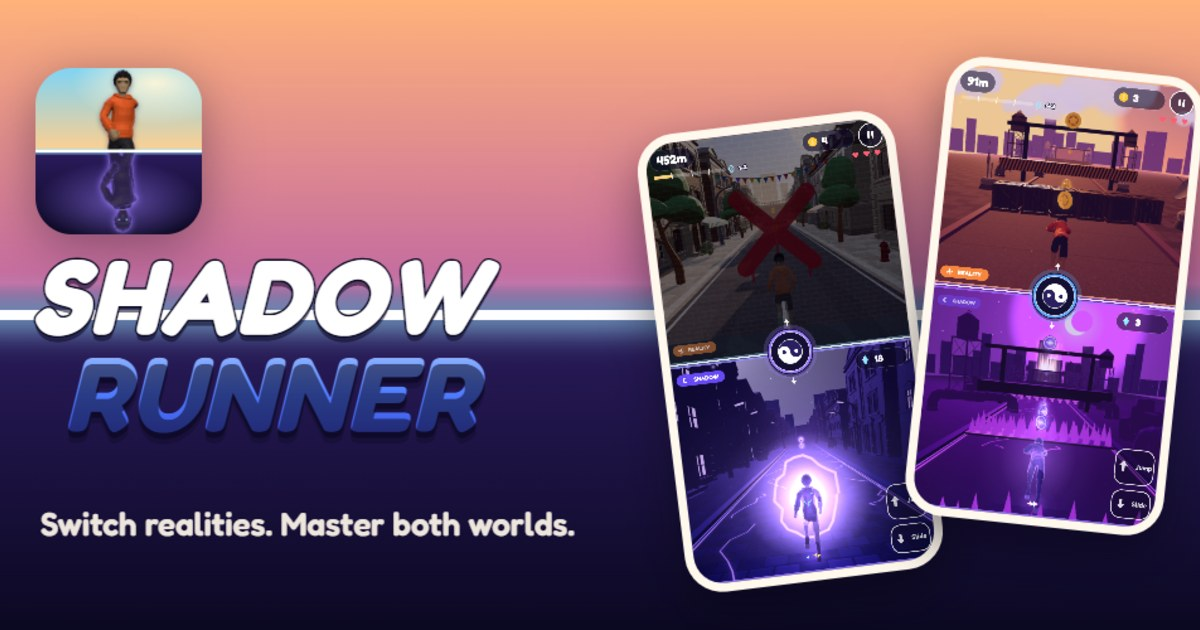
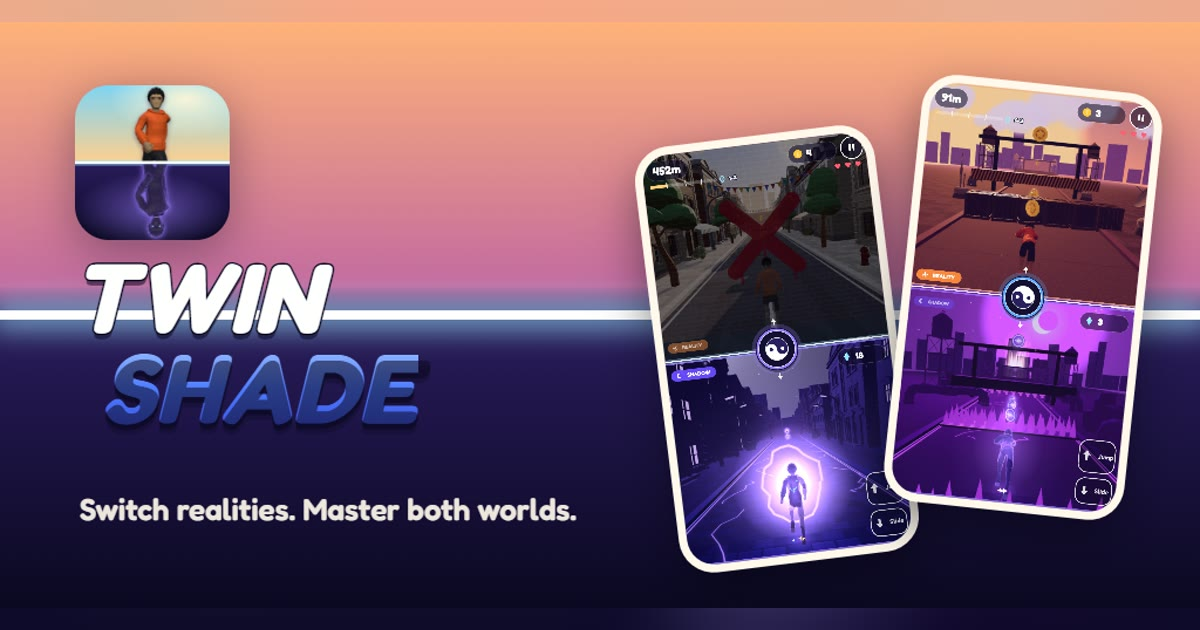
Rename the game to Twinshade
Google Play rejected the name "Shadow Runner" under the Impersonation
policy. New name everywhere, new share image with the Twinshade logo.

diff --git a/index.html b/index.html
@@ -3,12 +3,12 @@
 <head>
 <meta charset="utf-8">
 <meta name="viewport" content="width=device-width, initial-scale=1">
-<title>Shadow Runner: Two Worlds – Two-World Puzzle Runner for Android &amp; iPhone</title>
-<meta name="description" content="Shadow Runner: Two Worlds is a puzzle runner for Android and iPhone. Control your runner in a bright reality and your shadow in a dark shadow world at the same time. 30 handcrafted levels, no ads, no tracking, works offline. Coming soon.">
+<title>Twinshade: Two Worlds Runner – Puzzle Runner Game for Android &amp; iPhone</title>
+<meta name="description" content="Twinshade: Two Worlds Runner is a puzzle runner for Android and iPhone. Control your runner in a bright reality and your shadow in a dark shadow world at the same time. 30 handcrafted levels, no ads, no tracking, works offline. Coming soon.">
 <meta name="robots" content="index, follow, max-image-preview:large, max-snippet:-1">
 <meta name="author" content="Medin Turkes">
-<meta name="application-name" content="Shadow Runner">
-<meta name="apple-mobile-web-app-title" content="Shadow Runner">
+<meta name="application-name" content="Twinshade">
+<meta name="apple-mobile-web-app-title" content="Twinshade">
 <meta name="theme-color" content="#120e2a">
 <meta name="color-scheme" content="dark">
 <link rel="canonical" href="https://metur100.github.io/Shadow.Runner.Landing/">
@@ -22,20 +22,20 @@
 <link rel="stylesheet" href="assets/style.css">
 
 <meta property="og:type" content="website">
-<meta property="og:site_name" content="Shadow Runner">
+<meta property="og:site_name" content="Twinshade">
 <meta property="og:locale" content="en_US">
-<meta property="og:title" content="Shadow Runner: Two Worlds – Two worlds. One runner.">
+<meta property="og:title" content="Twinshade: Two Worlds Runner – Two worlds. One runner.">
 <meta property="og:description" content="Run through a bright reality and a dark shadow world at the same time. Tap to switch. 30 handcrafted levels for Android and iPhone. No ads, no tracking, fully offline.">
 <meta property="og:url" content="https://metur100.github.io/Shadow.Runner.Landing/">
 <meta property="og:image" content="https://metur100.github.io/Shadow.Runner.Landing/assets/og-image.jpg">
 <meta property="og:image:width" content="1200">
 <meta property="og:image:height" content="630">
-<meta property="og:image:alt" content="Shadow Runner app icon and logo next to two phones showing a runner in a sunny city above and its shadow in a dark world below">
+<meta property="og:image:alt" content="Twinshade app icon and logo next to two phones showing a runner in a sunny city above and its shadow in a dark world below">
 <meta name="twitter:card" content="summary_large_image">
-<meta name="twitter:title" content="Shadow Runner: Two Worlds – Two worlds. One runner.">
+<meta name="twitter:title" content="Twinshade: Two Worlds Runner – Two worlds. One runner.">
 <meta name="twitter:description" content="Run through a bright reality and a dark shadow world at the same time. No ads, no tracking, fully offline.">
 <meta name="twitter:image" content="https://metur100.github.io/Shadow.Runner.Landing/assets/og-image.jpg">
-<meta name="twitter:image:alt" content="Shadow Runner app icon and logo next to two phones showing a runner in a sunny city above and its shadow in a dark world below">
+<meta name="twitter:image:alt" content="Twinshade app icon and logo next to two phones showing a runner in a sunny city above and its shadow in a dark world below">
 
 <script type="application/ld+json">
 {
@@ -45,8 +45,8 @@
       "@type": "WebSite",
       "@id": "https://metur100.github.io/Shadow.Runner.Landing/#website",
       "url": "https://metur100.github.io/Shadow.Runner.Landing/",
-      "name": "Shadow Runner",
-      "alternateName": "Shadow Runner: Two Worlds",
+      "name": "Twinshade",
+      "alternateName": "Twinshade: Two Worlds Runner",
       "inLanguage": "en",
       "publisher": { "@id": "https://metur100.github.io/Shadow.Runner.Landing/#author" }
     },
@@ -59,8 +59,8 @@
     {
       "@type": ["MobileApplication", "VideoGame"],
       "@id": "https://metur100.github.io/Shadow.Runner.Landing/#app",
-      "name": "Shadow Runner: Two Worlds",
-      "alternateName": "Shadow Runner",
+      "name": "Twinshade: Two Worlds Runner",
+      "alternateName": "Twinshade",
       "url": "https://metur100.github.io/Shadow.Runner.Landing/",
       "description": "A two-world puzzle runner: control your physical self in a bright reality and your shadow in a dark shadow world at the same time, and tap to switch which one is active. 30 handcrafted levels in 6 worlds, cross-world puzzles, Daily Challenge, Endless mode and a cosmetic collection. No ads, no in-app purchases, no account, no tracking, fully offline.",
       "operatingSystem": "Android, iOS",
@@ -88,11 +88,11 @@
       "mainEntity": [
         { "@type": "Question", "name": "How do I control the runner and the shadow?", "acceptedAnswer": { "@type": "Answer", "text": "Tap to switch which form is active. Swipe up to jump and swipe down to slide. Your physical self runs through the bright reality world at the top, your shadow runs through the dark shadow world at the bottom." } },
         { "@type": "Question", "name": "I'm stuck on a level. Any tips?", "acceptedAnswer": { "@type": "Answer", "text": "Use a hint, and look at the other world: a lever above can open a gate below, and a shadow plate can build a bridge above. Remember that walls stop your physical self but your shadow phases through them, and bright light destroys your shadow." } },
-        { "@type": "Question", "name": "Does Shadow Runner need an internet connection?", "acceptedAnswer": { "@type": "Answer", "text": "No. The whole game, including the Daily Challenge and Endless mode, works fully offline." } },
+        { "@type": "Question", "name": "Does Twinshade need an internet connection?", "acceptedAnswer": { "@type": "Answer", "text": "No. The whole game, including the Daily Challenge and Endless mode, works fully offline." } },
         { "@type": "Question", "name": "Are there ads or in-app purchases?", "acceptedAnswer": { "@type": "Answer", "text": "No. There are no ads and no in-app purchases. Items in the collection are cosmetic only." } },
         { "@type": "Question", "name": "Can lost progress be restored?", "acceptedAnswer": { "@type": "Answer", "text": "Progress is stored only on your device, so it can't be restored after uninstalling the game or resetting progress." } },
         { "@type": "Question", "name": "How do I delete my data?", "acceptedAnswer": { "@type": "Answer", "text": "Use Settings → Reset progress in the game, or uninstall it. Nothing is stored anywhere else." } },
-        { "@type": "Question", "name": "When can I download Shadow Runner?", "acceptedAnswer": { "@type": "Answer", "text": "Shadow Runner is coming soon to Google Play and the App Store." } }
+        { "@type": "Question", "name": "When can I download Twinshade?", "acceptedAnswer": { "@type": "Answer", "text": "Twinshade is coming soon to Google Play and the App Store." } }
       ]
     }
   ]
@@ -106,7 +106,7 @@
 
 <header class="top" id="top">
   <div class="wrap">
-    <a class="brand" href="./"><img src="assets/favicon-96.png" alt="" width="38" height="38">Shadow Runner</a>
+    <a class="brand" href="./"><img src="assets/favicon-96.png" alt="" width="38" height="38">Twinshade</a>
     <nav aria-label="Main">
       <a class="opt" href="#how">How to play</a>
       <a class="opt" href="#worlds">Worlds</a>
@@ -126,8 +126,8 @@
     <div class="wrap hero-copy">
       <span class="eyebrow reveal"><span class="dot"></span>Coming soon · No ads · Works offline</span>
       <h1 class="reveal" style="--i:1">
-        <span class="line w-shadow">Shadow</span>
-        <span class="line w-runner">Runner</span>
+        <span class="line w-shadow">Twin</span>
+        <span class="line w-runner">Shade</span>
       </h1>
       <p class="tag reveal" style="--i:2">Switch realities. Master both worlds.</p>
       <p class="sub reveal" style="--i:3">Run through a bright reality and a dark shadow world at the same time. Tap to switch who's in control.</p>
@@ -178,7 +178,7 @@
   </div>
 
   <!-- Stats -->
-  <section aria-label="Shadow Runner in numbers">
+  <section aria-label="Twinshade in numbers">
     <div class="wrap">
       <div class="stats">
         <div class="stat reveal" style="--i:0"><b data-count="30">30</b><span>handcrafted levels</span></div>
@@ -224,7 +224,7 @@
   </section>
 
   <!-- How it works: four steps -->
-  <section id="steps" aria-label="How Shadow Runner works">
+  <section id="steps" aria-label="How Twinshade works">
     <div class="wrap">
       <span class="kicker reveal">How it works</span>
       <h2 class="reveal" style="--i:1">Switch realities. Master both worlds.</h2>
@@ -302,9 +302,9 @@
     <div class="wrap narrow about">
       <span class="kicker reveal">About the game</span>
       <h2 class="reveal" style="--i:1">The runner game with two worlds at once</h2>
-      <p class="reveal" style="--i:2"><strong>Shadow Runner: Two Worlds</strong> is a puzzle runner for Android and iPhone. You control two versions of the same character at the same time: your physical self runs through a bright reality world on the top half of the screen, and your shadow runs through a dark shadow world on the bottom half. Tap to switch which one is active, swipe up to jump and swipe down to slide.</p>
+      <p class="reveal" style="--i:2"><strong>Twinshade: Two Worlds Runner</strong> is a puzzle runner for Android and iPhone. You control two versions of the same character at the same time: your physical self runs through a bright reality world on the top half of the screen, and your shadow runs through a dark shadow world on the bottom half. Tap to switch which one is active, swipe up to jump and swipe down to slide.</p>
       <p class="reveal" style="--i:3">The two worlds play by different rules. Walls stop your physical self, but your shadow phases straight through them. Bright light, on the other hand, destroys your shadow. Collect coins in reality and crystals in the shadow world, and solve cross-world puzzles where a lever above opens a gate below, a shadow plate builds a bridge above and a street lamp floods the shadow world with light.</p>
-      <p class="reveal" style="--i:4">Play 30 handcrafted levels in six worlds with an interactive tutorial, three-star scoring, checkpoints, lives and hints. Take on the Daily Challenge, which is the same for everyone each day, or unlock Endless mode after World 1. Shadow Runner works fully offline and has no ads, no in-app purchases, no account and no tracking.</p>
+      <p class="reveal" style="--i:4">Play 30 handcrafted levels in six worlds with an interactive tutorial, three-star scoring, checkpoints, lives and hints. Take on the Daily Challenge, which is the same for everyone each day, or unlock Endless mode after World 1. Twinshade works fully offline and has no ads, no in-app purchases, no account and no tracking.</p>
     </div>
   </section>
 
@@ -333,7 +333,7 @@
     <div class="wrap narrow">
       <span class="kicker reveal">Support</span>
       <h2 class="reveal" style="--i:1">Questions? Switch over here.</h2>
-      <p class="lead reveal" style="--i:2">Answers to the most common questions about Shadow Runner.</p>
+      <p class="lead reveal" style="--i:2">Answers to the most common questions about Twinshade.</p>
       <div class="faq">
         <details class="reveal">
           <summary>How do I control the runner and the shadow?</summary>
@@ -365,7 +365,7 @@
         </details>
         <details class="reveal">
           <summary>When can I download it?</summary>
-          <p>Shadow Runner is coming soon to Google Play and the App Store. This page will link to the stores as soon as it's available.</p>
+          <p>Twinshade is coming soon to Google Play and the App Store. This page will link to the stores as soon as it's available.</p>
         </details>
       </div>
       <p class="contact reveal">Found a bug or have an idea for a new level?<br>Write to <a href="mailto:certidevelopment@gmail.com">certidevelopment@gmail.com</a></p>

diff --git a/privacy.html b/privacy.html
@@ -3,8 +3,8 @@
 <head>
 <meta charset="utf-8">
 <meta name="viewport" content="width=device-width, initial-scale=1">
-<title>Privacy Policy – Shadow Runner</title>
-<meta name="description" content="Privacy policy for the mobile game Shadow Runner: Two Worlds. The game collects no personal data, makes no network requests and stores your progress only on your device.">
+<title>Privacy Policy – Twinshade</title>
+<meta name="description" content="Privacy policy for the mobile game Twinshade: Two Worlds Runner. The game collects no personal data, makes no network requests and stores your progress only on your device.">
 <link rel="canonical" href="https://metur100.github.io/Shadow.Runner.Landing/privacy.html">
 <meta name="robots" content="index, follow">
 <meta name="author" content="Medin Turkes">
@@ -15,19 +15,19 @@
 <link rel="apple-touch-icon" href="assets/apple-touch-icon.png">
 <link rel="manifest" href="site.webmanifest">
 <meta property="og:type" content="article">
-<meta property="og:site_name" content="Shadow Runner">
+<meta property="og:site_name" content="Twinshade">
 <meta property="og:locale" content="en_US">
-<meta property="og:title" content="Privacy Policy – Shadow Runner">
-<meta property="og:description" content="Shadow Runner collects no personal data. Your progress stays on your device.">
+<meta property="og:title" content="Privacy Policy – Twinshade">
+<meta property="og:description" content="Twinshade collects no personal data. Your progress stays on your device.">
 <meta property="og:url" content="https://metur100.github.io/Shadow.Runner.Landing/privacy.html">
 <meta property="og:image" content="https://metur100.github.io/Shadow.Runner.Landing/assets/og-image.jpg">
 <meta property="og:image:width" content="1200">
 <meta property="og:image:height" content="630">
 <meta name="twitter:card" content="summary_large_image">
-<meta name="twitter:title" content="Privacy Policy – Shadow Runner">
+<meta name="twitter:title" content="Privacy Policy – Twinshade">
 <meta name="twitter:image" content="https://metur100.github.io/Shadow.Runner.Landing/assets/og-image.jpg">
 <script type="application/ld+json">
-{"@context":"https://schema.org","@type":"BreadcrumbList","itemListElement":[{"@type":"ListItem","position":1,"name":"Shadow Runner","item":"https://metur100.github.io/Shadow.Runner.Landing/"},{"@type":"ListItem","position":2,"name":"Privacy Policy","item":"https://metur100.github.io/Shadow.Runner.Landing/privacy.html"}]}
+{"@context":"https://schema.org","@type":"BreadcrumbList","itemListElement":[{"@type":"ListItem","position":1,"name":"Twinshade","item":"https://metur100.github.io/Shadow.Runner.Landing/"},{"@type":"ListItem","position":2,"name":"Privacy Policy","item":"https://metur100.github.io/Shadow.Runner.Landing/privacy.html"}]}
 </script>
 <link rel="stylesheet" href="assets/style.css">
 </head>
@@ -35,28 +35,28 @@
 <a class="skip" href="#main">Skip to content</a>
 <header class="top scrolled">
   <div class="wrap narrow">
-    <a class="brand" href="./"><img src="assets/favicon-96.png" alt="" width="38" height="38">Shadow Runner</a>
+    <a class="brand" href="./"><img src="assets/favicon-96.png" alt="" width="38" height="38">Twinshade</a>
     <nav aria-label="Main"><a class="opt" href="./#support">Support</a><a class="pill" href="./#download">Get the game</a></nav>
   </div>
 </header>
 
 <main class="wrap narrow doc" id="main">
   <h1>Privacy Policy</h1>
-  <p class="muted">Shadow Runner: Two Worlds (Android and iOS) · App ID: com.certidevelopment.shadowrunner · Effective date: 9 October 2026</p>
+  <p class="muted">Twinshade: Two Worlds Runner (Android and iOS) · App ID: com.certidevelopment.shadowrunner · Effective date: 9 October 2026</p>
 
   <div class="card">
-    <p><strong>Short version:</strong> Shadow Runner collects no personal data. The game makes no network requests, so nothing you do in it leaves your device. There are no ads, no analytics, no accounts, no third-party services and no tracking.</p>
+    <p><strong>Short version:</strong> Twinshade collects no personal data. The game makes no network requests, so nothing you do in it leaves your device. There are no ads, no analytics, no accounts, no third-party services and no tracking.</p>
   </div>
 
   <h2>1. Who is responsible</h2>
-  <p>Shadow Runner: Two Worlds is developed and published by Medin Turkes.<br>
+  <p>Twinshade: Two Worlds Runner is developed and published by Medin Turkes.<br>
   Contact: <a href="mailto:certidevelopment@gmail.com">certidevelopment@gmail.com</a></p>
 
   <h2>2. No personal data is collected</h2>
   <p>The game does not collect, process or transmit any personal data. It does not ask for your name, e-mail address or any other information about you, and it does not use any device or advertising identifiers.</p>
 
   <h2>3. No network requests</h2>
-  <p>Shadow Runner works fully offline. The game sends no network requests: there is no server, no online account, no cloud save and no online leaderboard. The Daily Challenge is generated on your device.</p>
+  <p>Twinshade works fully offline. The game sends no network requests: there is no server, no online account, no cloud save and no online leaderboard. The Daily Challenge is generated on your device.</p>
 
   <h2>4. Data stored on your device</h2>
   <p>To remember your progress, the game uses local storage on your device only. This includes things like completed levels and stars, collected coins and crystals, unlocked cosmetic items, Daily Challenge and Endless results, and your settings (for example sound, music, haptics and accessibility options).</p>

diff --git a/terms.html b/terms.html
@@ -3,8 +3,8 @@
 <head>
 <meta charset="utf-8">
 <meta name="viewport" content="width=device-width, initial-scale=1">
-<title>Terms of Use – Shadow Runner</title>
-<meta name="description" content="Terms of use for the mobile game Shadow Runner: Two Worlds by Medin Turkes.">
+<title>Terms of Use – Twinshade</title>
+<meta name="description" content="Terms of use for the mobile game Twinshade: Two Worlds Runner by Medin Turkes.">
 <link rel="canonical" href="https://metur100.github.io/Shadow.Runner.Landing/terms.html">
 <meta name="robots" content="index, follow">
 <meta name="author" content="Medin Turkes">
@@ -15,18 +15,18 @@
 <link rel="apple-touch-icon" href="assets/apple-touch-icon.png">
 <link rel="manifest" href="site.webmanifest">
 <meta property="og:type" content="article">
-<meta property="og:site_name" content="Shadow Runner">
+<meta property="og:site_name" content="Twinshade">
 <meta property="og:locale" content="en_US">
-<meta property="og:title" content="Terms of Use – Shadow Runner">
+<meta property="og:title" content="Terms of Use – Twinshade">
 <meta property="og:url" content="https://metur100.github.io/Shadow.Runner.Landing/terms.html">
 <meta property="og:image" content="https://metur100.github.io/Shadow.Runner.Landing/assets/og-image.jpg">
 <meta property="og:image:width" content="1200">
 <meta property="og:image:height" content="630">
 <meta name="twitter:card" content="summary_large_image">
-<meta name="twitter:title" content="Terms of Use – Shadow Runner">
+<meta name="twitter:title" content="Terms of Use – Twinshade">
 <meta name="twitter:image" content="https://metur100.github.io/Shadow.Runner.Landing/assets/og-image.jpg">
 <script type="application/ld+json">
-{"@context":"https://schema.org","@type":"BreadcrumbList","itemListElement":[{"@type":"ListItem","position":1,"name":"Shadow Runner","item":"https://metur100.github.io/Shadow.Runner.Landing/"},{"@type":"ListItem","position":2,"name":"Terms of Use","item":"https://metur100.github.io/Shadow.Runner.Landing/terms.html"}]}
+{"@context":"https://schema.org","@type":"BreadcrumbList","itemListElement":[{"@type":"ListItem","position":1,"name":"Twinshade","item":"https://metur100.github.io/Shadow.Runner.Landing/"},{"@type":"ListItem","position":2,"name":"Terms of Use","item":"https://metur100.github.io/Shadow.Runner.Landing/terms.html"}]}
 </script>
 <link rel="stylesheet" href="assets/style.css">
 </head>
@@ -34,17 +34,17 @@
 <a class="skip" href="#main">Skip to content</a>
 <header class="top scrolled">
   <div class="wrap narrow">
-    <a class="brand" href="./"><img src="assets/favicon-96.png" alt="" width="38" height="38">Shadow Runner</a>
+    <a class="brand" href="./"><img src="assets/favicon-96.png" alt="" width="38" height="38">Twinshade</a>
     <nav aria-label="Main"><a class="opt" href="./#support">Support</a><a class="pill" href="./#download">Get the game</a></nav>
   </div>
 </header>
 
 <main class="wrap narrow doc" id="main">
   <h1>Terms of Use</h1>
-  <p class="muted">Shadow Runner: Two Worlds (Android and iOS) · Effective date: 9 October 2026</p>
+  <p class="muted">Twinshade: Two Worlds Runner (Android and iOS) · Effective date: 9 October 2026</p>
 
   <h2>1. The game</h2>
-  <p>Shadow Runner: Two Worlds ("Shadow Runner") is a mobile game by Medin Turkes. By downloading or playing it you agree to these terms. In addition, the terms of the store you downloaded it from apply (Google Play Terms of Service or the Apple Media Services Terms, including Apple's Licensed Application End User License Agreement).</p>
+  <p>Twinshade: Two Worlds Runner ("Twinshade") is a mobile game by Medin Turkes. By downloading or playing it you agree to these terms. In addition, the terms of the store you downloaded it from apply (Google Play Terms of Service or the Apple Media Services Terms, including Apple's Licensed Application End User License Agreement).</p>
 
   <h2>2. Licence</h2>
   <p>You receive a personal, non-exclusive, non-transferable right to use the game on devices you own or control, for private, non-commercial purposes. The game, its levels, artwork, music, sounds and code are protected by copyright. You may not copy, modify, decompile, resell or redistribute the game except where the law expressly allows it.</p>

diff --git a/404.html b/404.html
@@ -3,7 +3,7 @@
 <head>
 <meta charset="utf-8">
 <meta name="viewport" content="width=device-width, initial-scale=1">
-<title>Page not found – Shadow Runner</title>
+<title>Page not found – Twinshade</title>
 <meta name="robots" content="noindex">
 <meta name="theme-color" content="#120e2a">
 <link rel="icon" href="/Shadow.Runner.Landing/favicon.ico" sizes="16x16 32x32 48x48">

diff --git a/README.md b/README.md
@@ -1,7 +1,7 @@
-# Shadow Runner – website
+# Twinshade – website
 
 Landing page, support page, privacy policy and terms of use for the mobile game
-**Shadow Runner: Two Worlds** by Medin Turkes. Plain static HTML/CSS/JS, hosted on GitHub Pages.
+**Twinshade: Two Worlds Runner** by Medin Turkes. Plain static HTML/CSS/JS, hosted on GitHub Pages.
 
 - Live: https://metur100.github.io/Shadow.Runner.Landing/
 - Privacy policy (for Google Play / App Store Connect): https://metur100.github.io/Shadow.Runner.Landing/privacy.html
